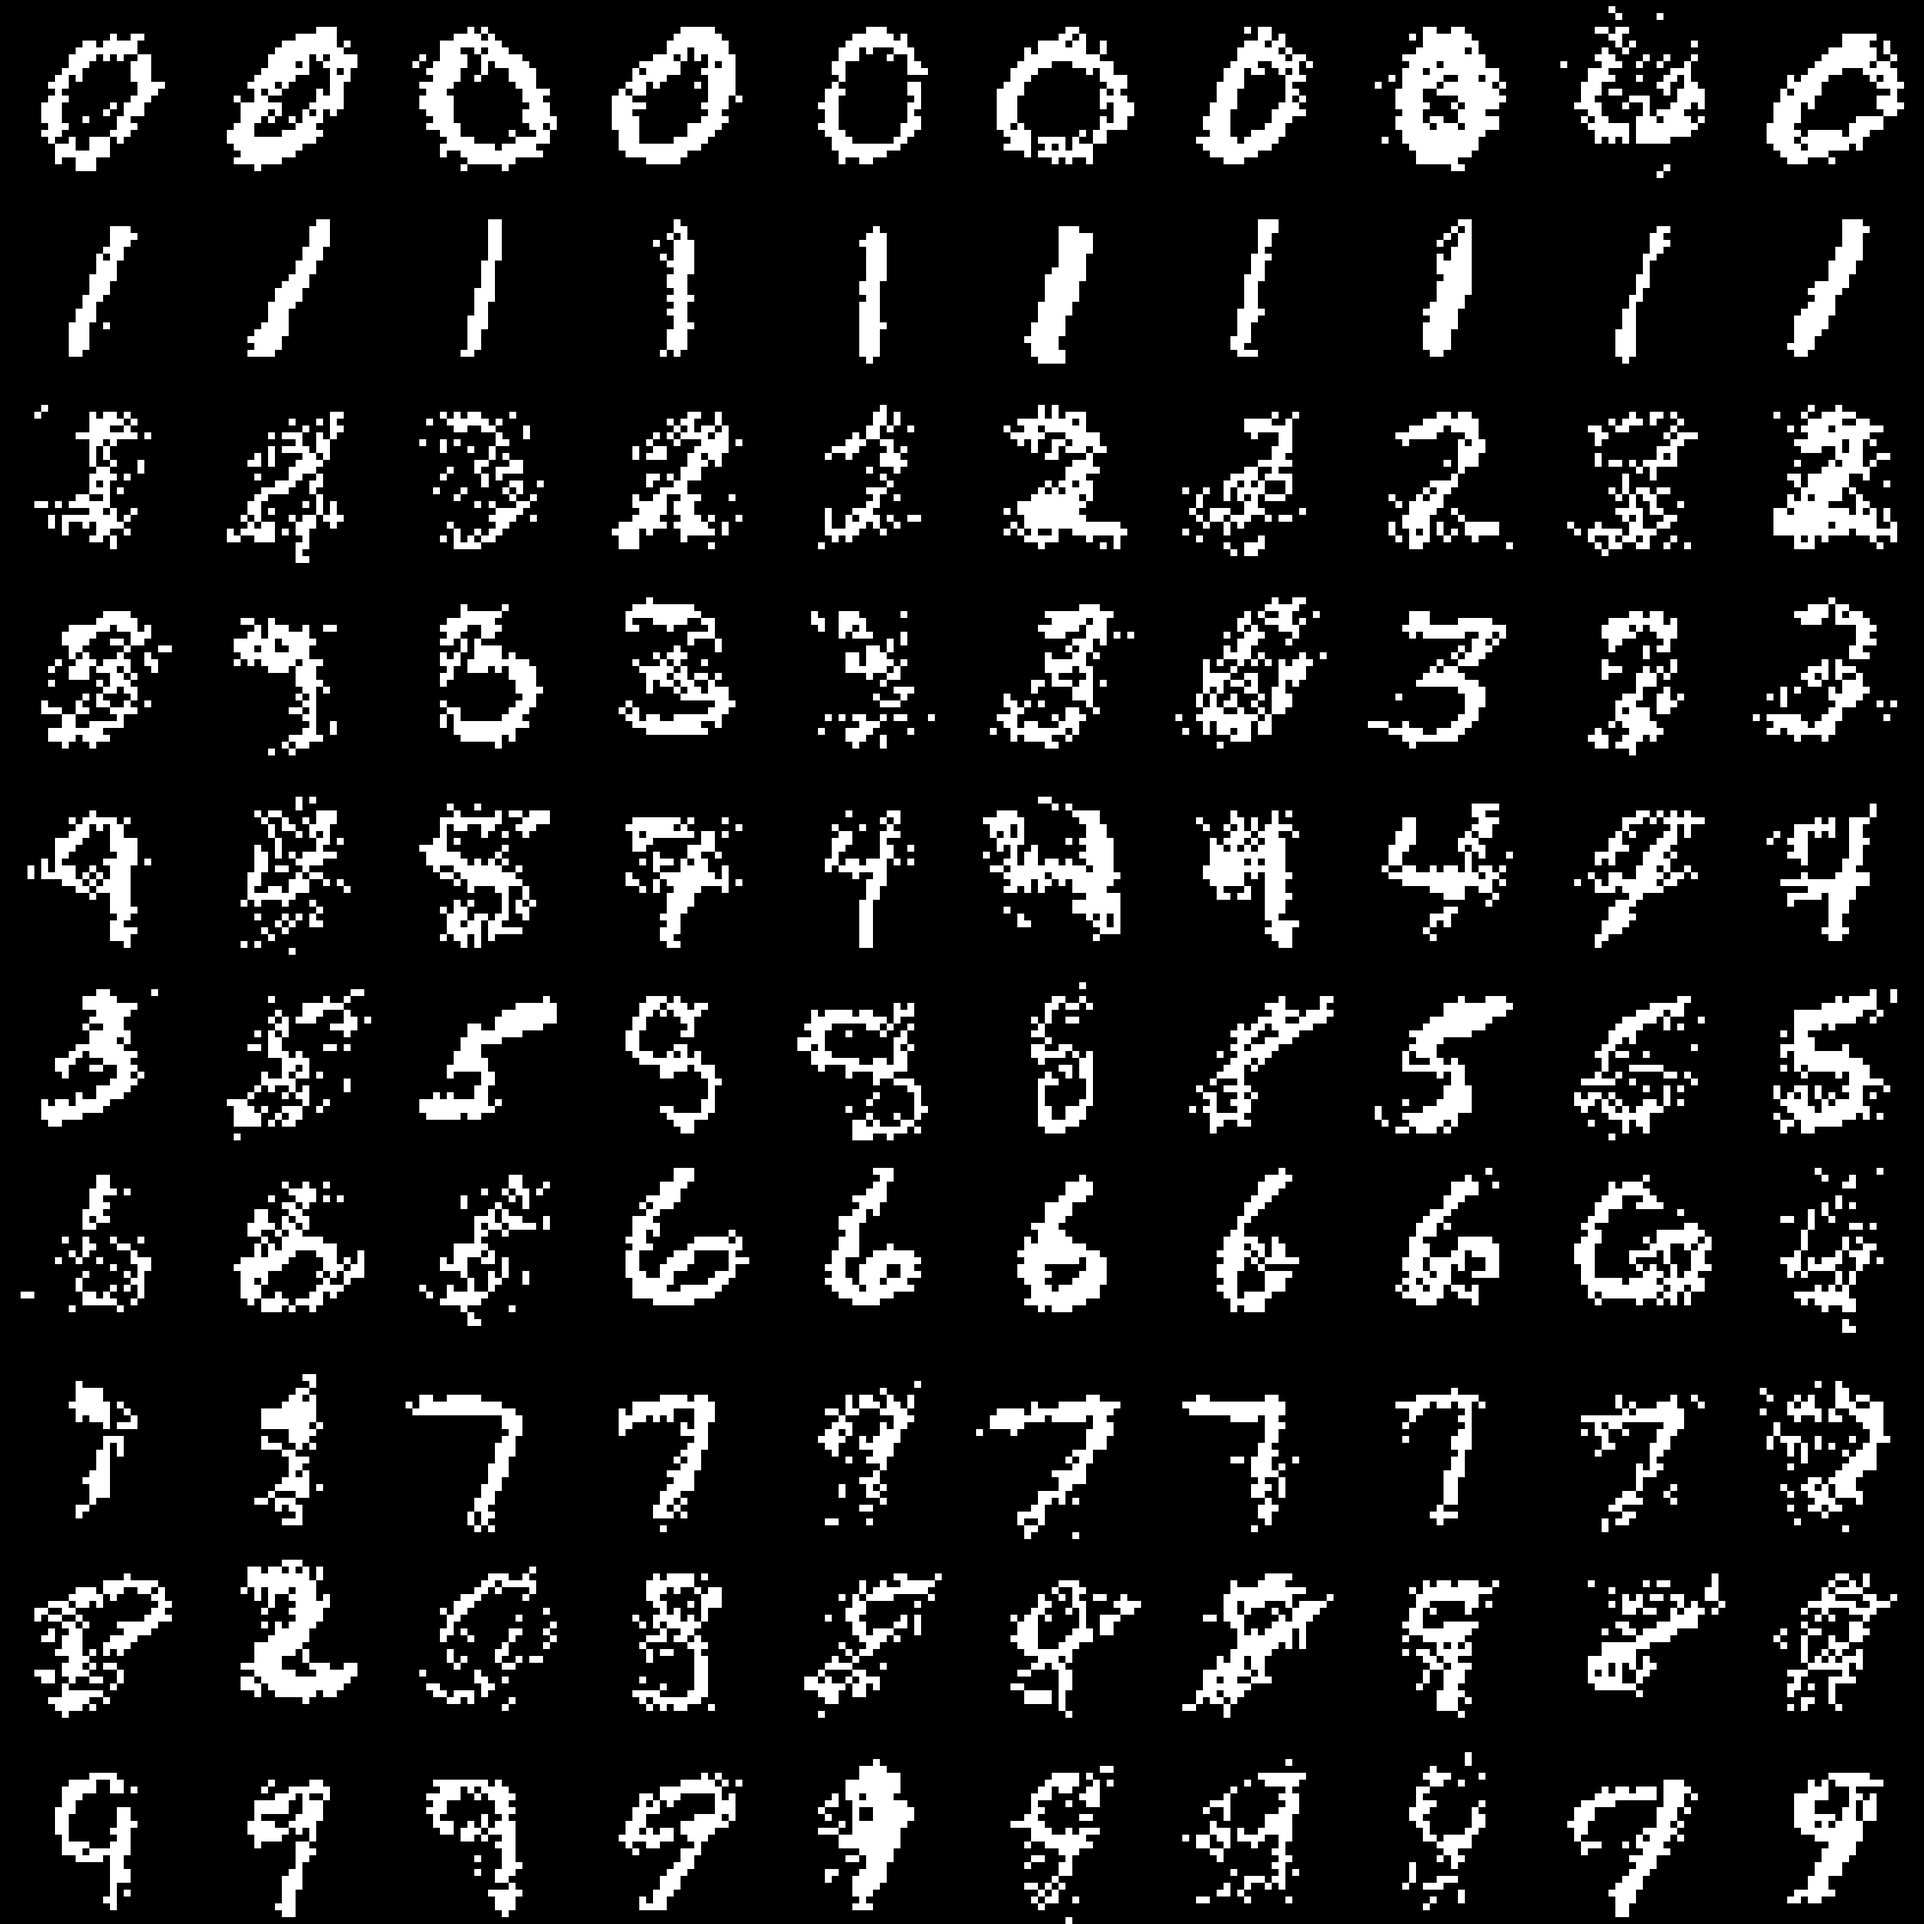
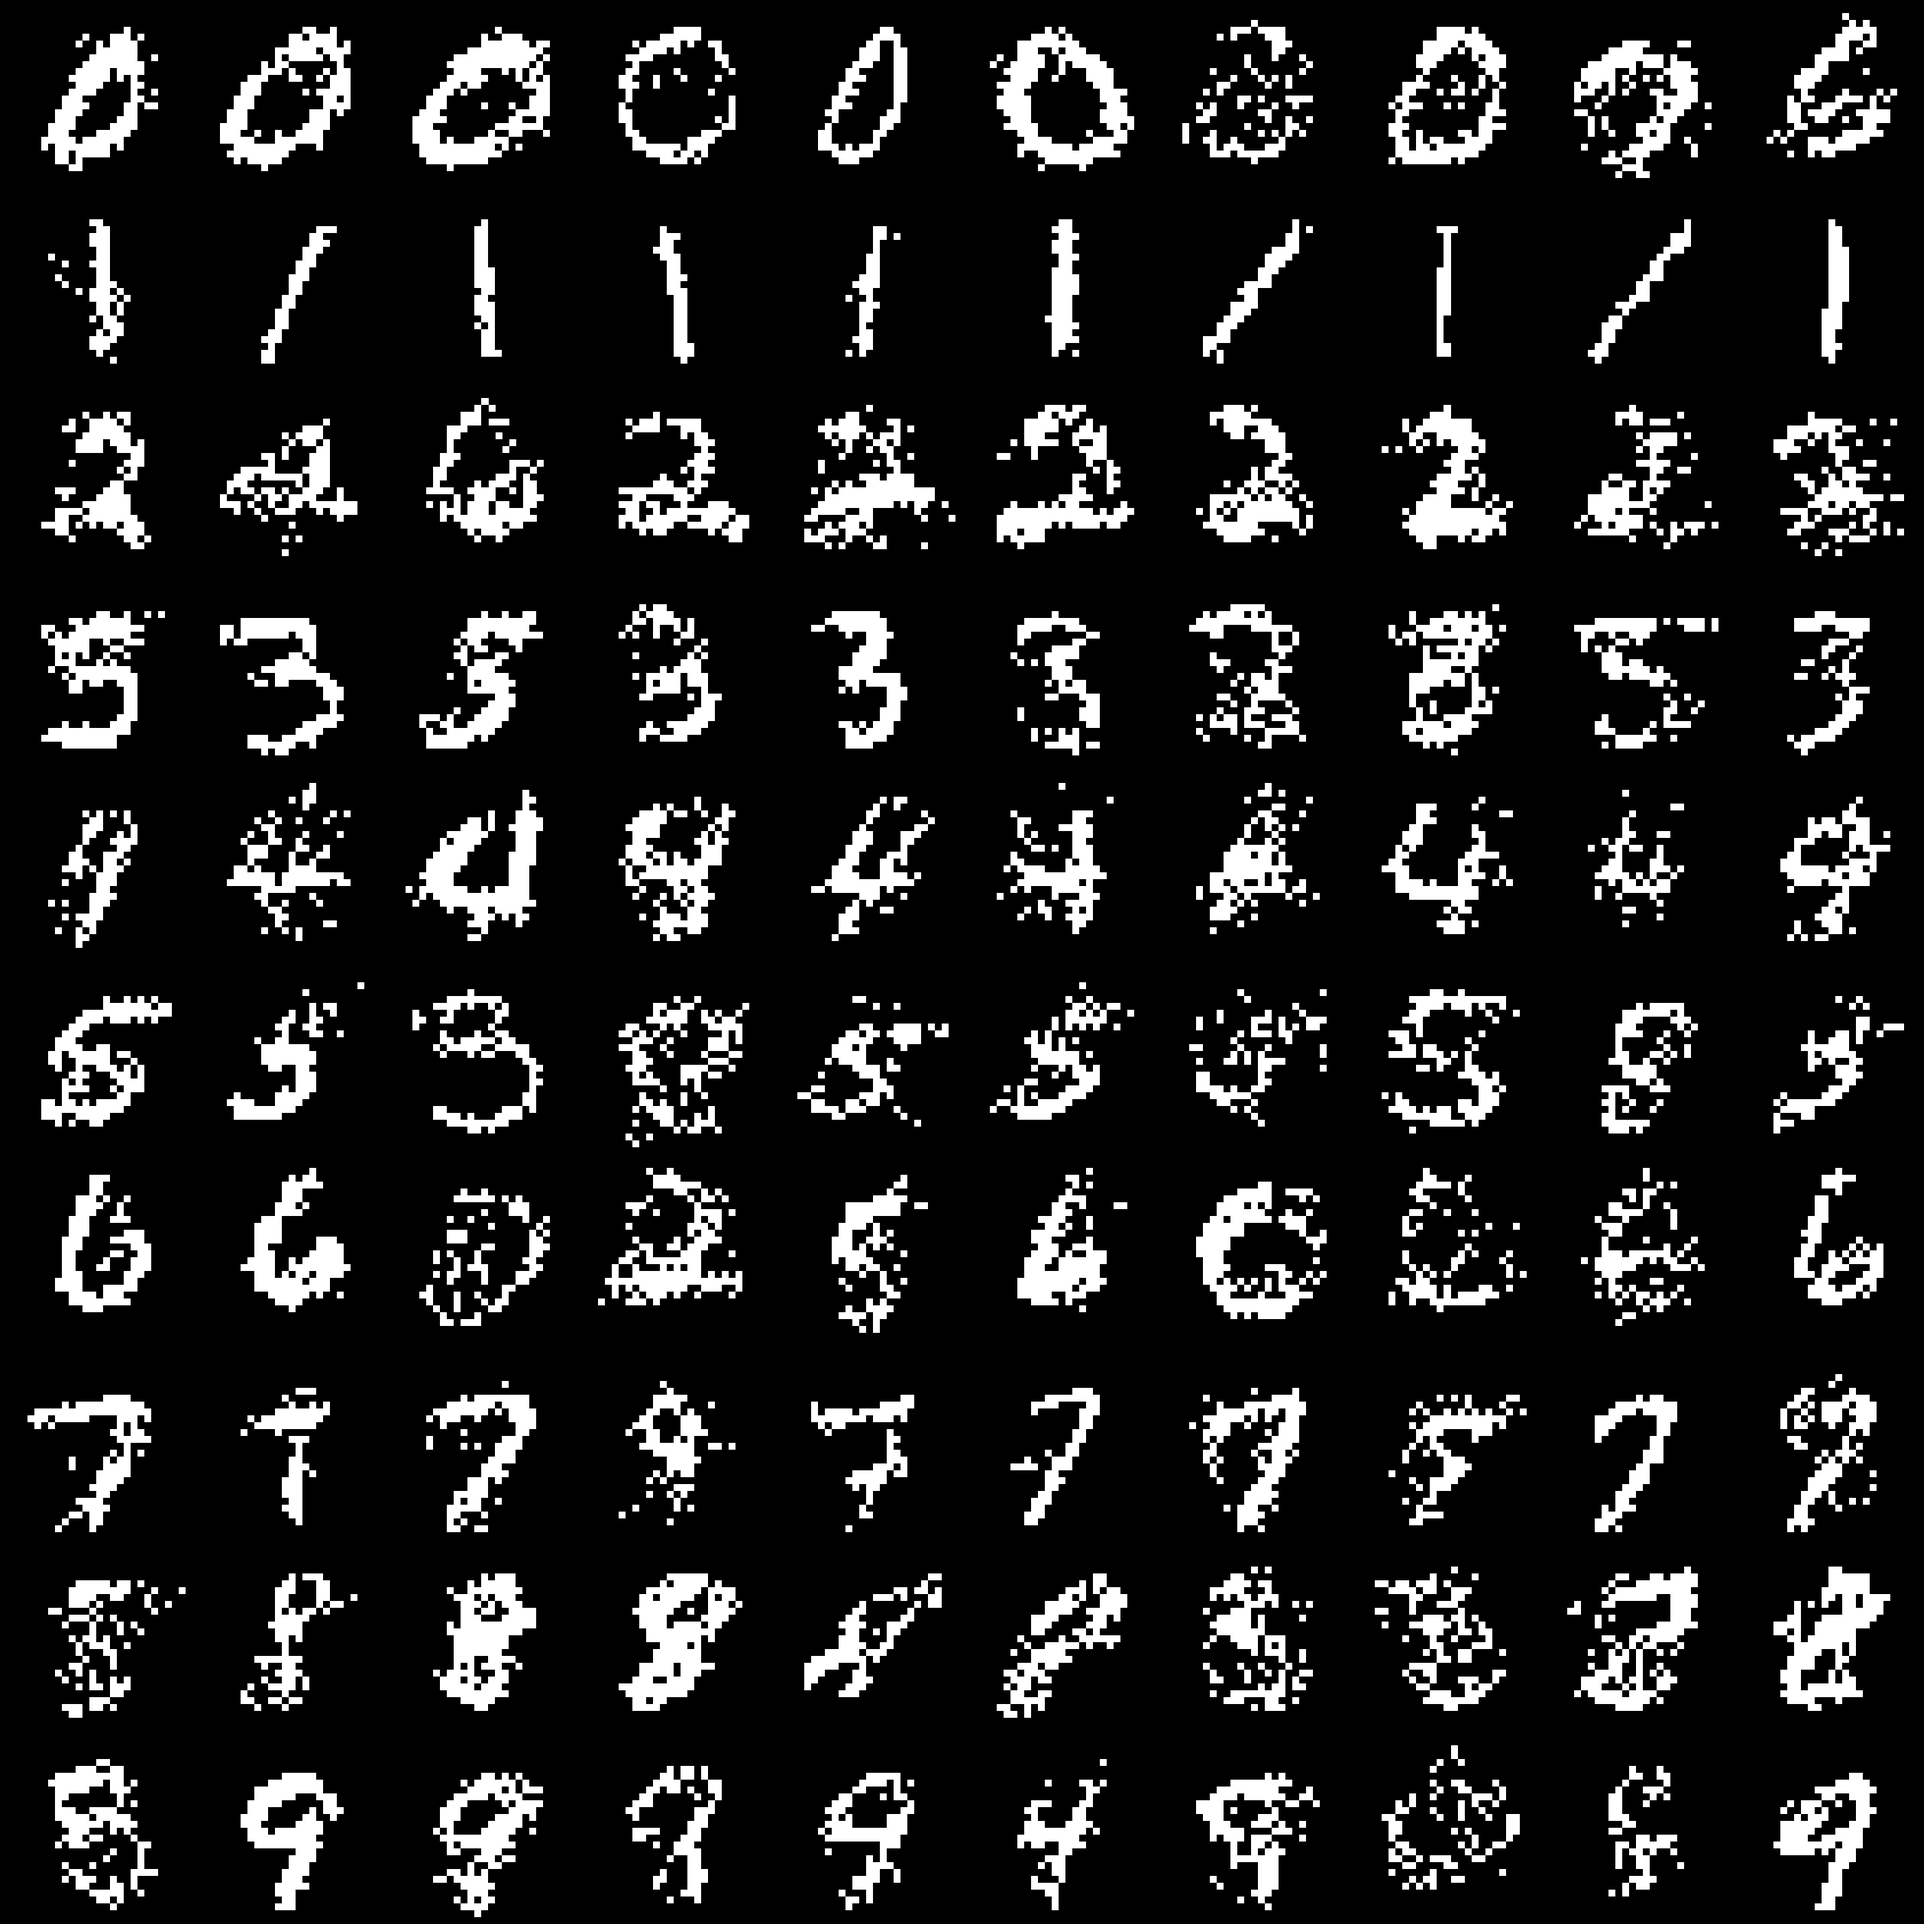
MNIST28

diff --git a/MNIST28_visual/mnist28_visual.py b/MNIST28_visual/mnist28_visual.py
@@ -53,12 +53,12 @@ def visualize(X, svName=None):
     plt.close()
 
 
-renewSeed(2022)
+renewSeed(2023)
 X = pd.read_csv('mnist28.csv')
 visualize(X, svName="mnist28")
 
-# ARF
-renewSeed(2022)
+# ARF - original version (not used for result)
+renewSeed(2023)
 X_ARF = X.copy()
 X_ARF.iloc[:,:] = X_ARF.iloc[:,:].astype('str')
 arf_rf = arf.adversarial_rf(X_ARF)
@@ -68,8 +68,14 @@ Xfake_ARF = (pandas2ri.PandasDataFrame(Xfake_ARF,index=Xfake_ARF.colnames).trans
 Xfake_ARF.to_csv('results/mnist28_ARF.csv', index=False)
 visualize(Xfake_ARF, svName="mnist28_ARF")
 
+# import CSV for modified ARF data (run in R previously)
+renewSeed(2023)
+X_fake_ARF = pd.read_csv('results/mnist28_ARF.csv')
+X_fake_ARF = X_fake_ARF.iloc[:,1:]
+visualize(X_fake_ARF, svName="mnist28_ARF")
+
 # TVAE
-renewSeed(2022)
+renewSeed(2023)
 model_TVAE = TVAE()
 model_TVAE.fit(X)
 Xfake_TVAE = model_TVAE.sample(10000)
@@ -77,7 +83,7 @@ Xfake_TVAE.to_csv('results/mnist28_TVAE.csv', index=False)
 visualize(Xfake_TVAE, svName="mnist28_TVAE")
 
 # CTGAN
-renewSeed(2022)
+renewSeed(2023)
 model_CTGAN = CTGAN()
 model_CTGAN.fit(X)
 Xfake_CTGAN = model_CTGAN.sample(10000)
